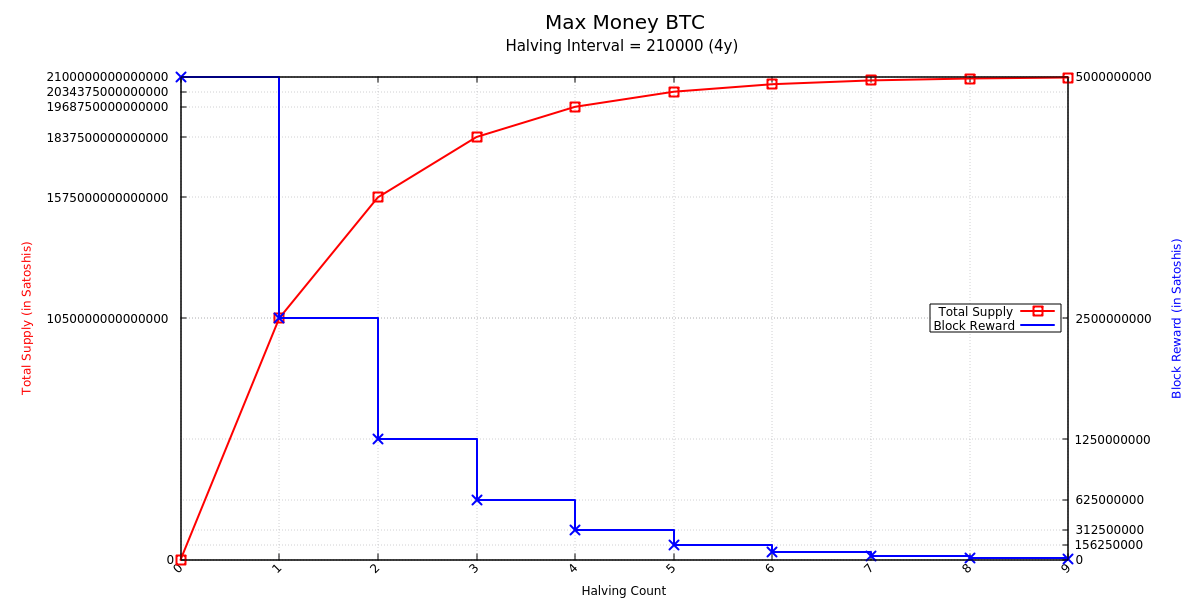
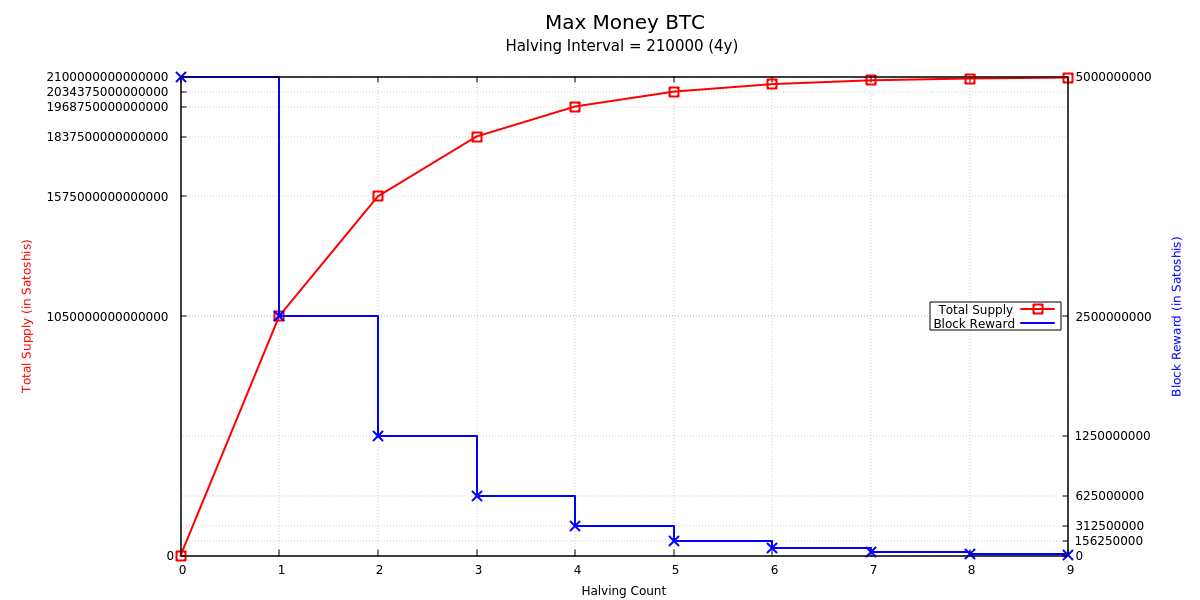
cleanup

diff --git a/max_money.py b/max_money.py
@@ -21,16 +21,16 @@ halving_count = np.int64(0)
 print "Count\tSupply\t\t\tReward"
 print "%d\t" % halving_count,
 print "%.2f\t\t\t" % total, # current supply is 0
-print "%.24g" % (current_reward / 1)
+print "%.24g" % current_reward
 
 # main loop
 while current_reward > 1: # bigger than one satoshi
     halving_count += 1
     print "%d\t" % halving_count,
     total += reward_interval * current_reward
-    print "%.2f\t" % (total / 1), # current supply is going bigger to max_money
+    print "%.2f\t" % total, # current supply is going bigger to max_money
     current_reward /= 2
-    print "%.24g" % (current_reward / 1)
+    print "%.24g" % current_reward
 
 # close - print to file
 sys.stdout.close()
